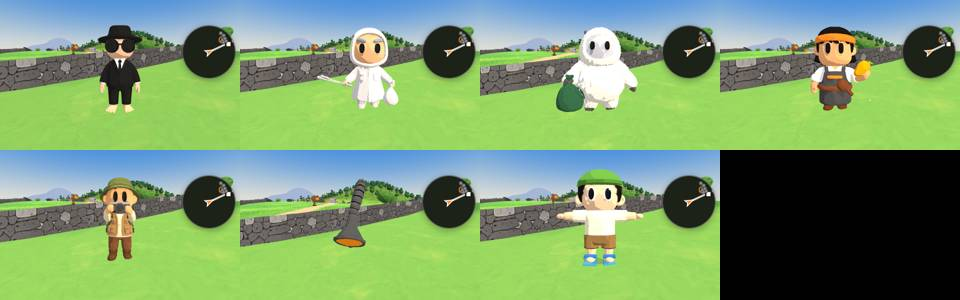
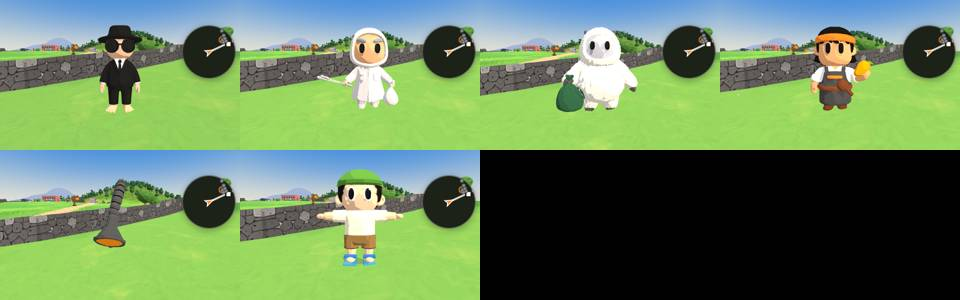
#299 스톤 셰프를 실제 셰프 닮게: 민머리·수염·조리복·러닝 반바지·트레일화·시계, 러너 대사
Claude-Session: https://claude.ai/code/session_01Hf36mZVdSidyx8UdV3woCB

diff --git a/src/chefnpc.js b/src/chefnpc.js
@@ -1,0 +1,51 @@
+// 스톤 셰프 차림 (#299): 실제 셰프를 닮게. 민머리·짧은 수염·짙은 눈썹·흰 조리복·짙은 앞치마·러닝 반바지·트레일화·러닝 시계
+// - NPC 전용 장비(npc: true, 가게 목록에 안 나옴). gear.js 가 ACCESSORIES 에 붙이고 game/quest.js 가 주는 사람 look.gear 로 입힘
+// - 머리는 짧은 머리 Tripo 머리(hat:short)를 쓰고, 모자 칸 'hat:npc-bald' 가 머리카락을 잘라(clip) 살색 정수리·수염·눈썹을 얹음
+// - 코드로 그린 로우폴리 조각. 조각 하나하나는 runner bake 가 한 메시로 합침 (장비 하나 = 그리기 한 번)
+import * as THREE from 'three';
+import { RoundedBoxGeometry } from 'three/examples/jsm/geometries/RoundedBoxGeometry.js';
+import { HC, ARM, COVER, frontZ, tee, pants, clothAcc } from './clothes.js';
+
+export const CHEF = { skin: '#c98a5e', scalp: '#e6c19d', beard: '#2a211c', clip: 0.835 }; /* scalp: 짧은 머리 텍스처 피부색(lid). skinTint 셰이더가 몸 피부색 비율을 곱함. clip: 이보다 위 머리카락은 안 그림 */
+const at = (geo, m, x, y, z) => { const o = new THREE.Mesh(geo, m); o.position.set(x, y, z); return o; };
+const G = (...ms) => { const g = new THREE.Group(); ms.flat(3).forEach((m) => m && g.add(m)); return g; };
+const both = (f) => [f(1), f(-1)];
+
+function baldHead(mat) { /* 민머리: 정수리 캡(앞 이마선까지) + 옆·뒤 띠(얼굴 앞은 비움). 얼굴과 같은 피부색 셰이더(skinTint)를 받게 텍스처 피부색으로 칠함 */
+  const S = mat('scalp', CHEF.scalp), c = [0, 0.79, 0.025], r = 0.272, F = 0.6; /* F: 얼굴 앞 비우는 반각 (눈 바깥까지) */
+  const cap = at(new THREE.SphereGeometry(r, 22, 8, 0, Math.PI * 2, 0, 1.56), S, ...c); cap.scale.set(1.02, 1, 1.04);
+  const ring = at(new THREE.SphereGeometry(r, 18, 4, Math.PI / 2 + F, Math.PI * 2 - 2 * F, 1.56, 0.6), S, ...c); ring.scale.set(1.02, 1, 1.04);
+  return G(cap, ring);
+}
+function beard(mat) { /* 입 둘레로 이어진 짧은 수염(콧수염·양쪽·턱) + 짙은 눈썹 */
+  const B = mat('beard', CHEF.beard), out = [];
+  const jaw = at(new THREE.SphereGeometry(0.258, 16, 5, Math.PI * 0.2, Math.PI * 0.6, Math.PI * 0.64, Math.PI * 0.19), B, 0, 0.745, 0.03); jaw.scale.set(1.02, 1, 1.04); out.push(jaw);
+  const mus = at(new RoundedBoxGeometry(0.13, 0.028, 0.03, 2, 0.012), B, 0, 0.672, 0.262); mus.rotation.x = -0.2; out.push(mus);
+  both((s) => { const k = at(new RoundedBoxGeometry(0.03, 0.06, 0.03, 2, 0.012), B, s * 0.062, 0.648, 0.256); k.rotation.z = s * 0.25; out.push(k); });
+  both((s) => { const e = at(new RoundedBoxGeometry(0.085, 0.026, 0.026, 2, 0.011), B, s * 0.085, 0.804, 0.296); e.rotation.z = s * -0.1; e.rotation.y = s * 0.3; out.push(e); });
+  return G(out);
+}
+function chefCoat(mat, L) { /* 흰 조리복: 반팔 틀 + 서 있는 깃 + 앞 단추 한 쌍(앞치마 위) + 소매 끝 접단 */
+  const g = tee(mat, { kind: 'tee', main: L.main, acc: L.acc, collar: L.main }), K = mat('btn', L.btn);
+  for (const x of [-0.05, 0.05]) for (const y of [0.582]) g.add(at(new THREE.SphereGeometry(0.011, 6, 4), K, x, y, frontZ(y, 0.002)));
+  const neck = at(new THREE.CylinderGeometry(0.098, 0.105, 0.04, 14, 1, true), mat('collar2', L.main), 0, 0.615, 0.025); neck.material.side = THREE.DoubleSide; g.add(neck);
+  return g;
+}
+function runShorts(mat, L) { /* 러닝 반바지: 기본 반바지 + 옆 줄 */
+  const g = pants(mat, { kind: 'shorts', main: L.main, acc: L.acc }), A = mat('stripe', L.stripe);
+  both((s) => g.add(at(new THREE.BoxGeometry(0.008, 0.07, 0.03), A, s * 0.255, 0.235, 0.04)));
+  return g;
+}
+function watch(mat) { /* 러닝 시계: 왼 손목(armL, 기본 자세에서 +x 로 뻗은 팔) 둘레 띠 + 손등 쪽(+y) 화면 */
+  const B = mat('band', '#2b2b33'), F = mat('face', '#3fd0c0'), x = 0.372;
+  const band = at(new THREE.CylinderGeometry(0.05, 0.05, 0.03, 10, 1), B, x, ARM.y, ARM.z); band.rotation.z = Math.PI / 2;
+  return G(band, at(new RoundedBoxGeometry(0.045, 0.016, 0.045, 2, 0.006), B, x, ARM.y + 0.05, ARM.z), at(new THREE.BoxGeometry(0.032, 0.006, 0.032), F, x, ARM.y + 0.059, ARM.z));
+}
+export function addChef(ACC) {
+  ACC['hat:npc-bald'] = { slot: 'hat', label: '민머리', bone: 'head', clip: CHEF.clip, skinTint: true, lid: [230, 193, 157], npc: true, build: baldHead };
+  ACC['face:npc-beard'] = { slot: 'face', label: '수염', bone: 'head', npc: true, build: beard };
+  ACC['top:npc-chef'] = { slot: 'top', label: '조리복', skin: true, covers: COVER.tee, npc: true, build: (mat) => chefCoat(mat, { main: '#f7f5ef', acc: '#e4e0d4', btn: '#3a3a40' }) };
+  ACC['vest:npc-apron-dark'] = { ...clothAcc({ slot: 'vest', name: '짙은 앞치마' }, { kind: 'apron', main: '#3b3d44', acc: '#c8a46a' }), npc: true };
+  ACC['bottom:npc-run'] = { slot: 'bottom', label: '러닝 반바지', skin: true, covers: COVER.shorts, npc: true, build: (mat) => runShorts(mat, { main: '#26324a', acc: '#1d2638', stripe: '#f29a2e' }) };
+  ACC['hand:npc-watch'] = { slot: 'hand', label: '러닝 시계', bone: 'armL', npc: true, build: watch };
+}

diff --git a/tools/stonechef.js b/tools/stonechef.js
@@ -1,0 +1,28 @@
+// 스톤 셰프 그림 (#299): node tools/stonechef.js [out] → notes/shots/299/chef-front.jpg · chef-side.jpg · chef-close.jpg · chef-far.jpg (멀리서 검게 보이지 않는지)
+// 가게가 다 열린 저장으로 들어가 스톤 가게 앞 주인을 앞·옆·가까이에서 낮(14시)에 찍음
+const { chromium } = require('playwright');
+const fs = require('fs');
+(async () => {
+  const out = process.argv[2] || 'notes/shots/299'; fs.mkdirSync(out, { recursive: true });
+  const b = await chromium.launch({ args: ['--use-gl=angle', '--use-angle=swiftshader', '--enable-unsafe-swiftshader'] });
+  const p = await b.newPage({ viewport: { width: 640, height: 400 } }); let errs = 0; p.on('pageerror', (e) => { errs++; console.log('ERR', e.message.slice(0, 300)); });
+  const W = (ms) => p.waitForTimeout(ms), E = (f, a) => p.evaluate(f, a);
+  await p.goto('file://' + process.cwd() + '/dist/test.html?aa=1#namsongi'); await W(5000);
+  await E(() => { const o = window.__oreum; Object.assign(o.save, { entered: 1, look: o.save.look || { sex: 'm', skin: 0 }, nickSet: 1, tut: { step: 99, done: true, v: 4 }, jeong: 1, soundOff: 1, mealFree: 1, shopGate: { init: 1, open: { gear: 1, manjok: 1, stone: 1, salon: 1, leap: 1, ride: 1, inn: 1 } } }); const k = ['oreumoreum.v1', 'oreumoreum.dev'].find((k) => localStorage.getItem(k)) || 'oreumoreum.v1'; localStorage.setItem(k, JSON.stringify(o.save)); });
+  await p.reload(); await W(5000); await p.click('#enter').catch(() => {}); await W(4000);
+  if (await E(() => !document.getElementById('look').hidden).catch(() => false)) { await p.click('#look-ok').catch(() => {}); await W(800); }
+  if (await E(() => { const f = document.getElementById('fs-tip'); return f && !f.hidden; })) await p.click('#fs-tip-x').catch(() => {});
+  await E(() => window.__oreum.pace?.test?.hold?.());
+  if (!(await E(() => !!window.__oreum.quest?.givers?.get('shop:stone')))) { console.log('FAIL 스톤 셰프 없음'); await b.close(); process.exit(1); }
+  for (const [n, yaw, dist] of [['front', -0.2, 3.2], ['side', 0.9, 3.0], ['close', -0.25, 1.7], ['far', -0.1, 16]]) {
+    await E(([yaw, dist]) => { const o = window.__oreum, g = o.quest.givers.get('shop:stone'), f = g.face; o.setTod(14); o.setWeather?.('clear');
+      const x = g.pos.x + Math.sin(f) * (dist + 1.5), z = g.pos.z + Math.cos(f) * (dist + 1.5); o.player.pos.set(x, o.groundAt(x, z), z); o.player.heading = f + Math.PI;
+      o.cam.mode = 'free'; const a = f + yaw, gy = g.pos.y, cl = dist < 2.5; o.camObj.position.set(g.pos.x + Math.sin(a) * dist, gy + (cl ? 2.0 : 1.8), g.pos.z + Math.cos(a) * dist); o.camObj.lookAt(g.pos.x, gy + (cl ? 1.75 : 1.25), g.pos.z);
+      o.runner.root.visible = false;
+      let st = document.getElementById('__sshot'); if (!st) { st = document.createElement('style'); st.id = '__sshot'; document.head.append(st); }
+      st.textContent = 'body > *:not(#view){visibility:hidden!important} #view{visibility:visible!important}'; }, [yaw, dist]);
+    await W(2500); await p.screenshot({ path: `${out}/chef-${n}.jpg`, type: 'jpeg', quality: 72 });
+    console.log('shot', n);
+  }
+  console.log(errs ? `ERR ${errs}` : 'ok'); await b.close(); process.exit(errs ? 1 : 0);
+})();

diff --git a/src/balance.js b/src/balance.js
@@ -1915,7 +1915,7 @@ export const QUESTS = {
     'shop:gear': { name: '철물 삼춘', shop: 'gear', look: { shirt: '#4c5a6e', pants: '#3b3b40', shoes: '#26262b', hat: 'hat:straw' }, hello: ['집게는 손목으로 쓰는 거여', '연장이 좋아야 일이 즐겁지', '환불은 안 혀. 수리는 혀'] },
     'shop:leap': { name: 'LEAP 점원', shop: 'leap', look: { shirt: '#f2f2f2', pants: '#24262c', shoes: '#f2f2f2' }, hello: ['오늘 핏 좋네요', '오름도 패션이에요', '멧돼지도 뒤돌아볼 핏이에요'] },
     'shop:salon': { name: '루이네 원장', shop: 'salon', look: { shirt: '#c9879b', pants: '#3a2f3a', shoes: '#2a222a' }, hello: ['바람에 머리가 다 날렸네', '앞머리 다듬어 줄까요?', '바람은 예약 없이 와요'] },
-    'shop:stone': { name: '스톤 셰프', shop: 'stone', look: { shirt: '#f6f4ee', pants: '#2b2b30', shoes: '#26262b' }, hello: ['배고프면 싸움도 못 해요', '오늘 파스타 잘 나왔어요', '오늘의 메뉴: 오늘 거예요'] },
+    'shop:stone': { name: '스톤 셰프', shop: 'stone', look: { skin: '#c98a5e', wide: 1.08, hat: 'hat:npc-bald', gear: { hair: 'hat:short', face: 'face:npc-beard', top: 'top:npc-chef', vest: 'vest:npc-apron-dark', bottom: 'bottom:npc-run', shoes: 'shoes:s3', hand: 'hand:npc-watch' } }, /* #299 실제 셰프를 닮게: 민머리·수염·흰 조리복·짙은 앞치마·러닝 반바지·트레일화·시계 (src/chefnpc.js) */ hello: ['배고프면 싸움도 못 해요', '오늘 파스타 잘 나왔어요', '오늘의 메뉴: 오늘 거예요', '오름은 뛰어서 넘는 거예요. 밥 먹고요'] },
     'note:top': { name: '정상 쪽지' }, // #208 주는 사람 없이 쪽지를 읽으면 받는 퀘스트 (game/summit.js)
     'shop:inn': { name: '안녕 매니저', shop: 'inn', look: { shirt: '#e9ecef', pants: '#3a4150', shoes: '#26262b', hat: 'hat:short' }, hello: ['일이 많은 당신의 안녕을 바랍니다', '체크인은 지금, 걱정은 체크아웃 때 두고 가요', '와이파이 비밀번호요? 귤이에요'] }, // #270 숙소 오피스제주
     'shop:ride': { name: '탈것 가게 사장', shop: 'ride', look: { shirt: '#e0443a', pants: '#2b2b30', shoes: '#26262b', hat: 'hat:w-cap' }, hello: ['오늘 바람은 순풍이에요', '빠른 건 우리가, 조심은 당신이'] }, /* #279 탈것 가게에도 주인이 없었음 */

diff --git a/src/gear.js b/src/gear.js
@@ -15,7 +15,8 @@ import { TEXCS } from './boot.js';
 import { RoundedBoxGeometry } from 'three/examples/jsm/geometries/RoundedBoxGeometry.js';
 import { bytesAs as dec, whenAsset, placeholderGeo, placeholderMat } from './assets.js'; // #85: 머리 3종(src/gear/head-*.js)은 따로 받음
 import { addClothes, clothAcc, slippers, dark, CLOTH_BUILD, COVER } from './clothes.js';
-import './clothes2.js'; // 겉모습 옷 모양 (#179): CLOTH_BUILD 에 새 kind 를 더함 (addClothes 전에)
+import './clothes2.js';
+import { addChef } from './chefnpc.js'; // #299 스톤 셰프 차림 (NPC 전용) // 겉모습 옷 모양 (#179): CLOTH_BUILD 에 새 kind 를 더함 (addClothes 전에)
 import { CLOTHES, LOOK_COLORS, BOOTS } from './balance.js';
 
 // 장비 데이터(model/extract-gear.js 로 만든 것) → build 함수. 텍스처가 있으면 그대로, 없으면 재질 기본색
@@ -204,6 +205,7 @@ addClothes(ACCESSORIES);
 /* NPC 전용 옷 (#279 만족한상회 사장): 가게 목록(CLOTHES)에 없어 팔지 않음. game/quest.js 의 주는 사람 look.hat·look.vest */
 ACCESSORIES['vest:npc-apron'] = { ...clothAcc({ slot: 'vest', name: '앞치마' }, { kind: 'apron', main: '#f3efe4', acc: '#c8452c' }), npc: true };
 ACCESSORIES['hat:npc-kerchief'] = { ...clothAcc({ slot: 'hat', name: '머릿수건' }, { kind: 'kerchief', main: '#e9eef2', acc: '#3a6ea8' }), npc: true };
+addChef(ACCESSORIES);
 // 처음 고르는 기본 옷 색 (#155): 기본 모자·반팔·반바지·쓰레빠의 색 바꾼 장비 'id~번호' (0번 = 원래 id). src/lookcolors.js 가 고름
 for (const k of ['hat', 'top', 'bottom']) {
   const c = CLOTHES.find((x) => x.id === LOOK_COLORS.ids[k]);

diff --git a/src/npclines.js b/src/npclines.js
@@ -39,10 +39,11 @@ export const NPC_TALK = {
     first: [['', '처음이죠? 고민은 배부르고 해요']],
     hello: [
       ['', '배고프면 싸움도 못 해요'], ['', '오늘의 메뉴: 오늘 거예요'], ['', '인생은 파스타예요. 불기 전에 먹어요'],
+      ['', '아침에 오름 세 개 뛰고 왔어요. 파스타는 그 뒤에 삶았고요'], /* #299 트레일러너 셰프 */
       ['down', '쓰러졌어요? 빈속이라 그래요. 앉아요'], ['rain', '비 오는 날은 수프죠. 고민도 풀려요'], ['late', '이 시간엔 야식이죠. 후회는 내일 해요'],
       ['broke', '귤이 없으면 냄새만 맡아요. 냄새는 공짜'], ['full', '배낭은 꽉, 배는 텅. 순서가 바뀌었네'], ['done3', '능선을 넘었으면 디저트 자격 있어요'],
     ],
-    open: [['', '식사하면 버프가 붙어요. 골라 봐요'], ['', '오늘 파스타 잘 나왔어요'], ['', '든든히 먹으면 귤도 덜 흘려요']],
+    open: [['', '식사하면 버프가 붙어요. 골라 봐요'], ['', '탄수화물은 연료예요. 저도 뛰기 전에 한 접시'], ['', '오늘 파스타 잘 나왔어요'], ['', '든든히 먹으면 귤도 덜 흘려요']],
     buy: [['', '좋은 선택. 고민은 다 먹고 해요'], ['', '천천히 먹어요. 쓰레기는 안 도망가요'], ['', '맛있게 먹으면 반은 해결이에요']],
     poor: [['', '귤이 모자라요. 배고픔은 못 깎아 줘요'], ['', '다음엔 꼭 와요. 자리 데워 둘게요']],
     close: [['', '배부르면 일단 된 거예요'], ['', '빈속으로 싸우지 말아요'], ['', '또 와요. 수프는 늘 있어요']],

diff --git a/src/game/quest.js b/src/game/quest.js
@@ -123,8 +123,8 @@ function addGiver(id, pos, root, h, runner = null, face = 0) {
 }
 function person(id, pos, face) {
   const d = Q.givers[id], L = d.look || {}, run = buildRunner(), o = DEFAULT_OUTFIT;
-  run.apply({ ...o, shirt: { ...o.shirt, color: L.shirt || o.shirt.color }, pants: { ...o.pants, color: L.pants || o.pants.color }, shoes: { ...o.shoes, color: L.shoes || o.shoes.color }, gear: { hat: L.hat || 'hat:straw', back: 'back:none', hand: 'hand:none', ...(L.vest ? { vest: L.vest } : {}) } }); /* 앞치마 등 (#279) */
-  run.root.position.copy(pos); run.root.rotation.y = face; scene.add(run.root);
+  run.apply({ ...o, ...(L.skin ? { skin: { color: L.skin } } : {}), shirt: { ...o.shirt, color: L.shirt || o.shirt.color }, pants: { ...o.pants, color: L.pants || o.pants.color }, shoes: { ...o.shoes, color: L.shoes || o.shoes.color }, gear: { hat: L.hat || 'hat:straw', back: 'back:none', hand: 'hand:none', ...(L.vest ? { vest: L.vest } : {}), ...(L.gear || {}) } }); /* 앞치마 등 (#279), 셰프 차림 통째(#299 look.gear·skin) */
+  run.root.position.copy(pos); run.root.rotation.y = face; if (L.wide) run.root.scale.set(L.wide, 1, L.wide); scene.add(run.root); /* 다부진 체격 (#299) */
   if (col) col.add(pos.x, pos.z, 0.5);
   return addGiver(id, pos, run.root, 2.95, run, face);
 }

diff --git a/notes/prototype-v1.md b/notes/prototype-v1.md
@@ -145,6 +145,7 @@ Cloudflare: Workers 배포용 API 토큰 oreumoreum-deploy(90일, 2027-02-05 만
   - 옷·장비: 칸마다 따로 만든 껍데기. `skin: true` 면 몸과 같은 `skinWeights` 규칙(체형 맞춤 뒤)으로 휨, 아니면 `bone` 에 붙음. 장비 하나는 정점 색으로 구워 한 메시(그리기 1번, 양면 재질만 따로). `covers` 로 덮는 몸 부위를 감춤(옷 사이로 몸이 안 뚫림), 모자는 `clip` 위로 나온 머리카락을 감춤. 상의·하의·신발은 늘 하나(없으면 'top:base'·'bottom:shorts'·'shoes:s1')
   - 새 옷: clothes.js 에 모양 함수 + balance.js CLOTHES 한 줄. 몸 부위 덮기는 COVER 표. 확인 `node tools/chars.js <이름>` (남·여 x 피부 3 x 단계 1·3·5 x 자세 5 표)
   - 겉모습 옷 (#179): balance.js `STYLE_CLOTHES`(tier 0·price·set·tint·fresh, CLOTHES 에 붙음)·`OUTFIT_SETS`(한 벌 맞춤 6). 새 모양 kind 와 있던 kind 의 덧붙임(무늬·멜빵·자락 등)은 `src/clothes2.js` (clothes.js 틀을 씀, gear.js 가 addClothes 전에 읽음). 새 kind 의 덮는 부위 `KIND_COVER`, 모자 자르기 `KIND_HAT`(clothes.js). 그림 clothicons.js `HAT2` 등. 색 바꾸기는 `id~번호` 장비(gear.js, LOOK_COLORS.style), 저장 save.clothes.tint
+  - NPC 전용 차림 (#299 스톤 셰프): `src/chefnpc.js` (민머리 `hat:npc-bald`·수염 `face:npc-beard`·조리복·짙은 앞치마·러닝 반바지·시계, gear.js `addChef`). 주는 사람 look 에 `skin`·`wide`(체격)·`gear`(칸별 장비 통째) 를 줄 수 있음(game/quest.js person)
   - 겉모습과 능력 (#179): 옷 칸 능력은 gearscore.js `abilityCloth(save, 칸)` = 가진 옷 중 점수 최고. slotTier·slotUp·loot curItem·강화가 이것을 씀. save.clothes.wear 는 겉모습만 (내 가방 옷 탭에서 고름, 능력 옷에 귤색 점)
   - 확인: `node tools/clothes40.js`(40벌 서기·달리기·뒤·세트 그림), `node tools/style.js [shot]`(겉모습·능력·세트·색·LEAP 새 옷 탭), `node tools/fit.mjs`(뚫림)
   - 체형 치수 (#177): clothes.js 의 TORSO·HIPS(몸통 단면)·ARM·LEG·LEG_R(다리 단면)·BODY(가랑이·골반 관절 hipY·무릎 경계) 표 하나. 높이 값은 모두 다리 27% 설계 좌표이고, 다리 길이 `BODY.leg`(#191, 기본 0.2) 에 맞춰 `bodyY` 가 세로만 옮김(basebody `bodyWarp` 안, 몸·휘는 옷 모두). runner.js 뼈대 골반 관절은 bodyY(BODY.hipY), 걸음 벌림·박자도 다리 길이에서 나옴. 옷이 몸을 뚫는지 `node tools/fit.mjs`
